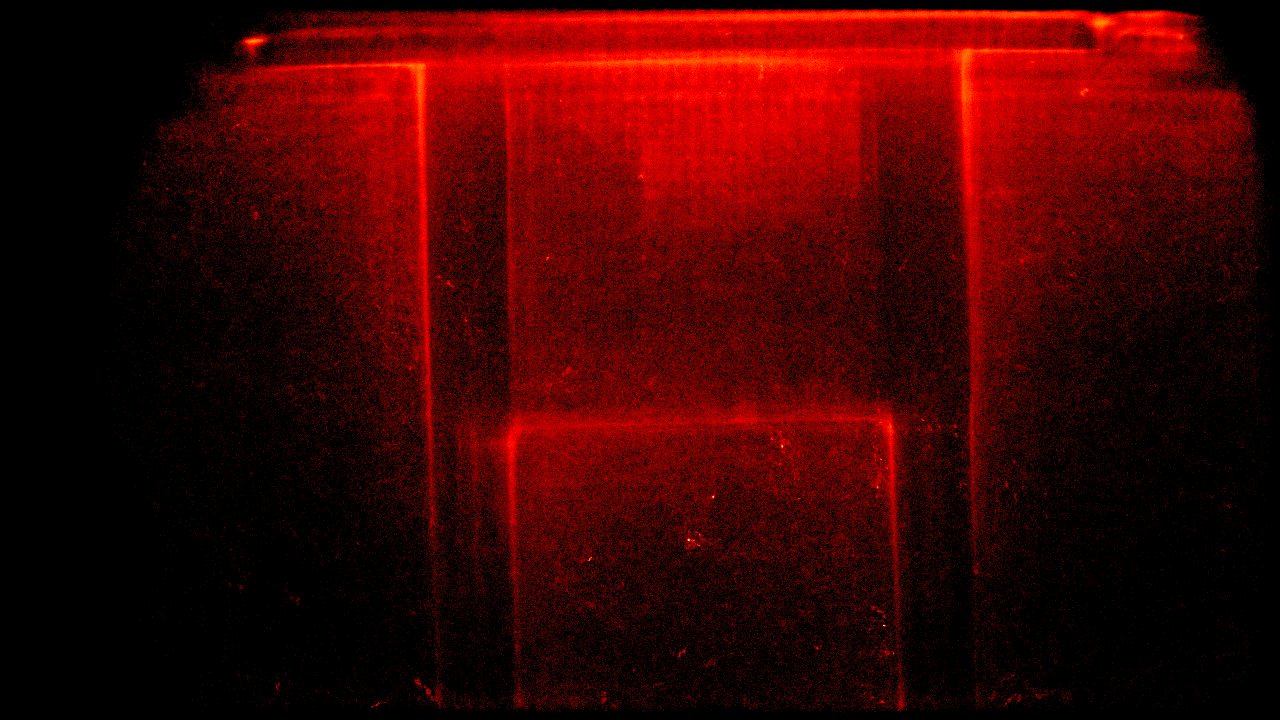
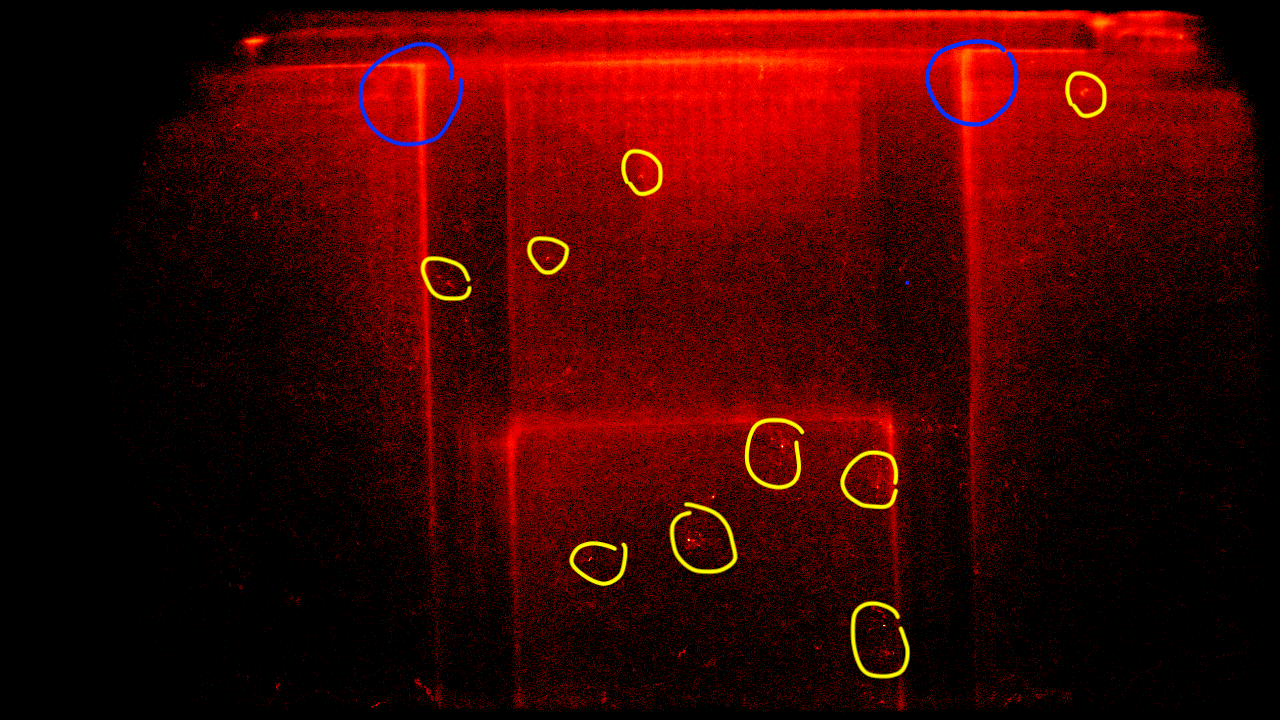
update results

diff --git a/heatmap_generator.py b/heatmap_generator.py
@@ -25,8 +25,9 @@ def generate_heatmap(track_file_path, output_file_path):
                 print("Error: Frame dimensions not found in the first line of the track history file.")
                 return
             
-            height = frame_dimensions["height"]
-            width = frame_dimensions["width"]
+            #"height": 720, "width": 1280
+            height = 720; #frame_dimensions["height"]
+            width = 1280; #frame_dimensions["width"]
             print(f"Frame dimensions: {width}x{height}")
             
             heatmap = np.zeros((height, width), dtype=np.float32)

diff --git a/research-paper/RESEARCH-PAPER.md b/research-paper/RESEARCH-PAPER.md
@@ -126,8 +126,9 @@ Bee detection and tracking is performed using a YOLOv8 model. The model has been
 
 The application also provides a local web UI, which is built using Flask. The web UI allows the user to view a live video feed from the camera, monitor the bee traffic statistics, and adjust the camera settings.
 
-Graphs of metrics in entrance-observer UI:
-![](./Screenshot%202025-09-07%20at%2015.39.46.png)
+Graphs of metrics in entrance-observer UI from september 9:
+
+![](./Screenshot%202025-09-09%20at%2020.40.54.png)
 
 
 #### 3.3.2. Gratheon web application
@@ -254,20 +255,33 @@ The second stage of the analysis focuses on correlating the bee traffic data wit
 *   **Time-Series Analysis:** The bee traffic data will be treated as a time series to identify and model temporal patterns, such as diurnal cycles. This analysis will also be instrumental in establishing a baseline for normal activity, which is a prerequisite for anomaly detection.
 *   **Regression Analysis:** Multiple regression models will be developed to predict bee activity levels based on a combination of weather variables. This will help to identify the most significant environmental drivers of foraging behavior.
 
+#### Spatial heatmap analysis
 In addition to statistical analysis, we use visualization techniques to explore the spatial patterns of bee movement. A heatmap of bee traffic on the landing board was be generated from the `track_history` data. This visualization reveals the most frequented areas, providing insights into the bees' preferred paths and loitering zones. 
 
-The heatmap for the data collected on September 6th is shown below.
-![Bee traffic heatmap for September 6th](./heatmap-09-06.png)
+The heatmasp for the track data collected on September 6th and 9th as examples are shown below. Notice that there are clearly visible hot spots (highlighted in yellow) of stationary bees, we're assuming these are defenders, spread out and positioned in the landing area.
 
-Grafana dashboard view of hive metrics (stored in mysql) of 7th of September. Time is in EEST. White areas in the timeline are related to system restarts due to full disk and due to maintenance and solving missing detected bees metric not being delivered to the cloud.
-![Grafana](./Screenshot%202025-09-07%20at%2015.46.46.png)
+The aluminium-glass construction designed to prolong bee movement for better counting and tracking also shows some of the inefficiencies - bees avoid cold metal, and they do spend too much time on top of the glass falsely assuming they can enter somewhere on top.
+
+Thery also are present adjacent to hive entrance angles (highlighted in blue) where partial entry under aluminium frame was possible too at the beginning on 6th of september and later on 9th when they collectively cleared out the entrance.
+
+They also tend to like to be in the corners, possibly because it offers some area of protection from the wind or potential preditors.
+
+Also notice that glass border is also noticeable, because bees could move on it upside-down and flip on the other side.
+
+![](./heatmap-09-06.png)
+![](./heatmap-09-09.png)
+
+
+#### Grafana UI for correlation detection
+
+
+Beehive activity metrics (stored in mysql, queried via graphql API through telemetry-api) in Grafana for September 8th (time in UI is in EEST):
+![](./Screenshot%202025-09-08%20at%2023.23.52.png)
+
+
 
 Details connecting grafana to backend GraphQL API that uses telemetry-api. Notice using sending currently selected time range as arguments and parsing output
 ![](./Screenshot%202025-09-08%20at%2023.30.08.png)
-
-
-Beehive activity metrics in Grafana for September 8th (time in UI is in EEST):
-![](./Screenshot%202025-09-08%20at%2023.23.52.png)
 
 Based on these analyses, we will test several specific hypotheses, including:
 1.  There is a significant positive correlation between ambient temperature (above a certain threshold) and the number of outgoing bees (`bees_out`).

diff --git a/README.md b/README.md
@@ -201,7 +201,3 @@ The video processing pipeline is designed to be robust and efficient, handling b
 ### Video Processing Workflow
 
 The application uses OpenCV for both video capture and encoding. The `cv2.VideoCapture` function is used to interface with the camera hardware, and the `cv2.VideoWriter` function is used to encode the video. This approach was chosen for its simplicity and reliability across different platforms.
-
-## See also
-- https://github.com/BeeAlarmed/BeeAlarmed
-- http://github.com/Mjrovai/Bee-Counting/
